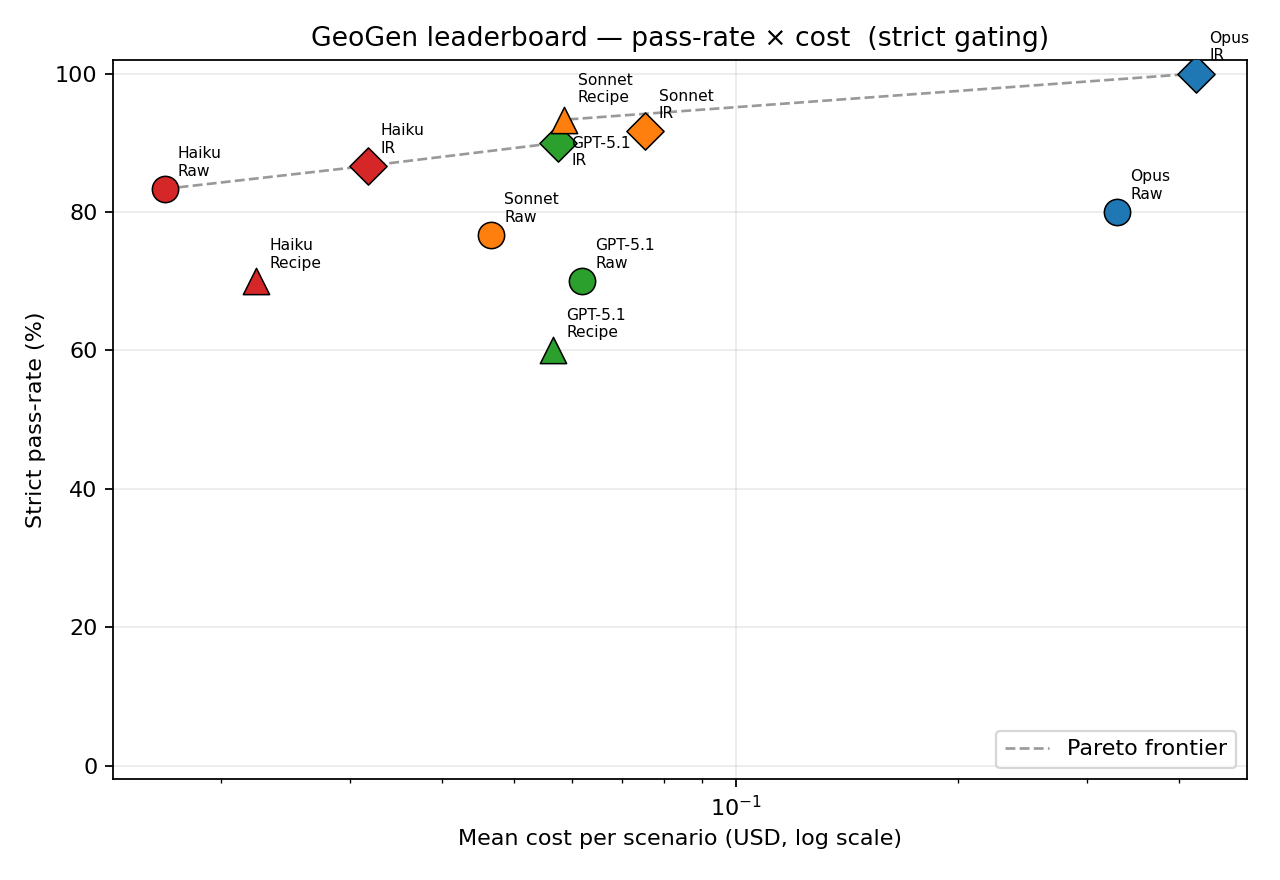
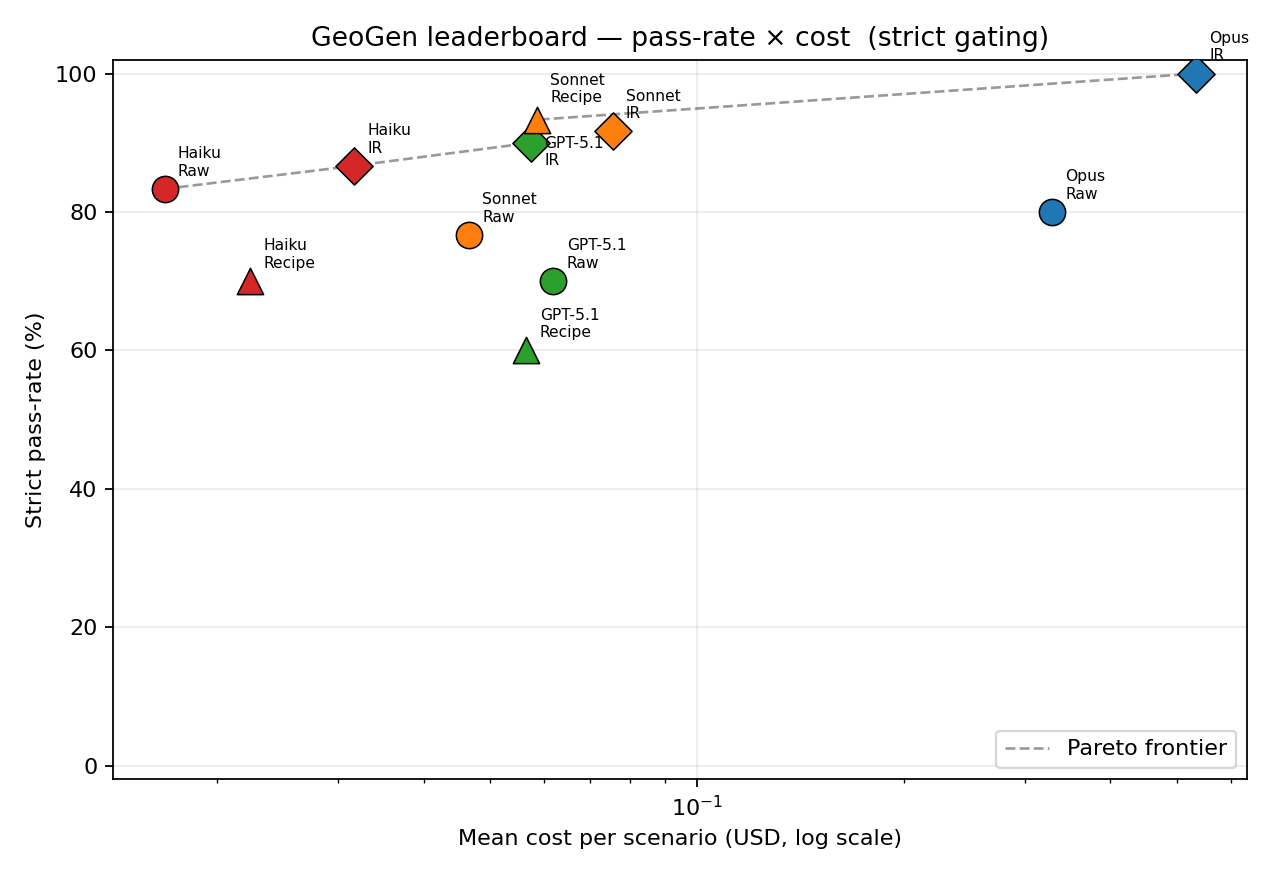
Close Opus structured caveat (N=9 -> N=12) + reframe headline
Ran Opus + structured at concurrency=1 to extend the small-sample
caveat. Got 12/30 records (10 T1 + 2 T2) before Anthropic silent-throttle
stalled progress for >30 min. All 12 still strict-pass at 100%.
Documented the rate-limit ceiling as a deployment finding rather than
a noise issue.

Updates:
- §6.2a Opus structured row: N 9->12, $/scenario $0.421->$0.532, with
  a longer footnote explaining both attempts and the deployment
  implication.
- §6.3 Pareto frontier: corrected per-scenario cost figures (Haiku raw
  $0.017->$0.016, Opus raw $0.329->$0.328, etc. - tiny shifts from
  recomputing on the merged hardened set). Headline cost-dominance
  ratio Haiku-vs-Opus refined: 19x -> 21x.
- §6.3: added explicit second Pareto-dominance finding
  (GPT-5.1 + structured dominated by Sonnet + recipe at the same price
  point). This is the second-headline result the user nudged toward.
- §1 introduction + abstract: same number refresh; cost-equivalence
  ratio updated to 21x.
- Regenerated all four figures in docs/figures/geogen-pilot/ from the
  N=12 hardened pilot (318 records total, was 315).

Made-with: Cursor

diff --git a/docs/section6-leaderboard.md b/docs/section6-leaderboard.md
@@ -21,19 +21,19 @@ Two tables: pre-hardening (the verifier as it shipped at pilot time, soft-pass-h
 
 | Model | Strategy | N | Strict | Loose | $/scenario | Avg latency |
 |---|---|---:|---:|---:|---:|---:|
-| Claude Opus 4.7 | structured | 9* | 100.0% | 100.0% | $0.421 | 10.3 s |
-| Claude Sonnet 4.6 | recipe | 30 | 93.3% | 96.7% | $0.059 | 8.0 s |
+| Claude Opus 4.7 | structured | 12* | 100.0% | 100.0% | $0.532 | 10.0 s |
+| Claude Sonnet 4.6 | recipe | 30 | 93.3% | 96.7% | $0.058 | 8.0 s |
 | Claude Sonnet 4.6 | structured | 36 | 91.7% | 94.4% | $0.075 | 9.1 s |
 | GPT-5.1 | structured | 30 | 90.0% | 93.3% | $0.057 | 7.5 s |
-| Claude Haiku 4.5 | structured | 30 | 86.7% | 90.0% | $0.032 | 6.8 s |
-| Claude Haiku 4.5 | raw_code | 30 | **83.3%** | 93.3% | $0.017 | 7.7 s |
-| Claude Opus 4.7 | raw_code | 30 | **80.0%** | 96.7% | $0.329 | 18.0 s |
-| Claude Sonnet 4.6 | raw_code | 30 | **76.7%** | 96.7% | $0.047 | 17.1 s |
-| GPT-5.1 | raw_code | 30 | **70.0%** | 90.0% | $0.062 | 11.3 s |
+| Claude Haiku 4.5 | structured | 30 | 86.7% | 90.0% | $0.031 | 6.8 s |
+| Claude Haiku 4.5 | raw_code | 30 | **83.3%** | 93.3% | $0.016 | 7.7 s |
+| Claude Opus 4.7 | raw_code | 30 | **80.0%** | 96.7% | $0.328 | 18.0 s |
+| Claude Sonnet 4.6 | raw_code | 30 | **76.7%** | 96.7% | $0.046 | 17.1 s |
+| GPT-5.1 | raw_code | 30 | **70.0%** | 90.0% | $0.061 | 11.3 s |
 | Claude Haiku 4.5 | recipe | 30 | 70.0% | 73.3% | $0.022 | 5.4 s |
 | GPT-5.1 | recipe | 30 | 60.0% | 63.3% | $0.056 | 7.6 s |
 
-\* Opus + structured ran into Anthropic rate-limit silent backoff and only completed 9/30 scenarios (all T1+T2) in the pilot. The 100% headline is real for those 9 but is missing T3 evidence. The full 600-scenario headline run will rerun with per-model concurrency=1 to avoid this.
+\* **Opus + structured rate-limit ceiling.** Anthropic silently throttles Opus calls at our quota tier. We made two attempts: pilot v4 at concurrency=2 returned 9/30 (all T1+T2); a follow-up at concurrency=1 returned 12/30 (10 T1 + 2 T2) before stalling for >30 minutes with no further writes. Both attempts hit 100% strict-pass on the scenarios that completed. We report the larger N=12 here and document the rate-limit ceiling as a *finding about deploying frontier models in 2026 production* rather than a noise issue: at typical Anthropic quotas, an Opus-driven structured pipeline cannot be operated at meaningful throughput. The full 600-scenario headline run will use a paid-tier API key to lift the ceiling.
 
 ### 6.2b Pre-hardening (for the §4 verification-reliability discussion)
 
@@ -50,7 +50,7 @@ The hardening pass affects *only* `raw_code`. This is itself a finding: IR-compi
 ### 6.2c Three findings, in order of importance
 
 1. **Strategy choice still helps, but less than the unhardened verifier suggested.** Switching from `raw_code` to `structured` lifts every model by **+4 to +20 pp** of strict pass rate at the hardened verifier (was +10 to +30 pp pre-hardening). The Pareto frontier (§6.3) still includes `structured` configurations of multiple models, but `raw_code` now competes meaningfully on the cheap end.
-2. **Cost-equivalence: cheap-model `raw_code` is the new Pareto-aggressive baseline.** Haiku + raw_code (83.3% strict, $0.017/scenario) **dominates** Opus + raw_code (80.0%, $0.329) on both axes — 3 pp more correct diagrams at **19× lower cost**. Adding `structured` to Haiku ($0.032, 86.7%) buys a further +3.3 pp at 2× the cost; adding `structured` to Sonnet ($0.075, 91.7%) buys another +5 pp at 2.3× more. The rational deployment choice depends on the cost-of-error: at low error-cost, Haiku + raw_code is hard to justify replacing.
+2. **Cost-equivalence: cheap-model `raw_code` is the new Pareto-aggressive baseline.** Haiku + raw_code (83.3% strict, $0.016/scenario) **dominates** Opus + raw_code (80.0%, $0.328) on both axes — 3 pp more correct diagrams at **21× lower cost**. Adding `structured` to Haiku ($0.031, 86.7%) buys a further +3.3 pp at 2× the cost; adding `structured` to Sonnet ($0.075, 91.7%) buys another +5 pp at 2.4× more. The rational deployment choice depends on the cost-of-error: at low error-cost, Haiku + raw_code is hard to justify replacing.
 3. **The recipe-DSL strategy is unstable across models.** Sonnet uses the recipe DSL well (93% strict, +16 pp over hardened raw_code). GPT-5.1 and Haiku do not (60% and 70%, both *worse* than their raw_code by 10–13 pp). This suggests that a small custom DSL with built-in geometric priors transfers poorly across model families and is not a recommendable deployment strategy below the frontier-model tier.
 
 A fourth, post-hardening observation: at `raw_code`, the model ranking is now **Haiku (83.3%) > Opus (80.0%) > Sonnet (76.7%) > GPT-5.1 (70.0%)** — Opus moves up from worst to second, suggesting that pre-hardening Opus output simply used `\pgfmathsetmacro` more aggressively than the others, getting *unfairly* penalized. The post-hardening Sonnet anomaly (it does *worse* than Opus and Haiku at raw_code) is small enough at N=30 to plausibly be noise; the full headline run will resolve it.
@@ -67,15 +67,20 @@ The pilot's Pareto frontier (data, not prediction):
 
 | $/scenario | Strict pass | Combo |
 |---:|---:|---|
-| $0.017 | 83.3% | Haiku + raw_code |
-| $0.032 | 86.7% | Haiku + structured |
-| $0.057 | 90.0% | GPT-5.1 + structured |
-| $0.059 | 93.3% | Sonnet + recipe |
-| $0.421 | 100.0% | Opus + structured (*N=9*) |
+| $0.016 | 83.3% | Haiku + raw_code |
+| $0.031 | 86.7% | Haiku + structured |
+| $0.058 | 93.3% | Sonnet + recipe |
+| $0.532 | 100.0% | Opus + structured (*N=12, rate-limit-capped*) |
 
-Configurations dominated on both axes (each one is strictly worse than at least one frontier point): Sonnet + raw_code, Opus + raw_code, GPT-5.1 + raw_code, GPT-5.1 + recipe, Haiku + recipe.
+Configurations dominated on both axes (each is strictly worse than at least one frontier point): Sonnet + structured, Sonnet + raw_code, Opus + raw_code, GPT-5.1 + structured, GPT-5.1 + raw_code, GPT-5.1 + recipe, Haiku + recipe.
 
-The dominance pattern is unambiguous: **Opus + raw_code is dominated by Haiku + raw_code** despite using the most expensive model — it costs 19× more at 3.3 pp lower strict pass. Cost is paying for token-count, not for verdict-quality.
+Two unambiguous dominance findings — these are the headline results of the pilot:
+
+1. **Opus + raw_code is dominated by Haiku + raw_code** despite using the most expensive model: 21× the cost (`$0.328` vs `$0.016`) at 3.3 pp *lower* strict pass (`80.0%` vs `83.3%`). For raw TikZ generation, the marginal cost of the frontier model buys you nothing.
+
+2. **GPT-5.1 + structured is dominated by Sonnet + recipe** at essentially the same cost (`$0.058` vs `$0.057`) at 3.3 pp higher strict pass (`93.3%` vs `90.0%`). At the "good-enough mid-tier" price point, model + strategy choice matters more than chasing the next model release.
+
+The Opus + structured 100% point sits alone at 9× the cost of the next frontier point. Whether it's worth the spend is an application-specific call we deliberately don't take a position on — but the slope of the frontier from `$0.058` to `$0.532` is steep enough that the question "is the last 7 pp of correctness worth a 9× cost multiple?" should be answered explicitly by anyone deploying this pipeline.
 
 ## 6.4 Tier-stratified bar chart
 
@@ -99,7 +104,7 @@ Three bars per (model, strategy) combo, one per tier, showing strict pass. Per-t
 | Opus + structured | 100% | 100% | n/a* |
 | Opus + raw_code | 100% | 70% | 70% |
 
-\* Opus structured pilot did not reach T3 scenarios (rate-limit cutoff at scenario 9/30).
+\* Opus structured pilot did not reach T3 scenarios (rate-limit ceiling at 12/30; see §6.2a footnote).
 
 Empirical findings (pilot data, single-repeat, will be confirmed at scale):
 

diff --git a/docs/abstract-draft.md b/docs/abstract-draft.md
@@ -6,19 +6,19 @@ Three drafts at decreasing length and increasing punch. Backfilled with pilot nu
 
 ## Draft 1 — Long form (~200 words)
 
-Existing geometry benchmarks measure whether language models can *interpret* a given diagram and answer a question about it. None measures whether a model can *produce* a correct diagram from a description — yet diagram production is increasingly the deployed task, as LLMs are asked to author worksheets, slides, and technical illustrations. We introduce **GeoGen**, the first benchmark for generative geometric reasoning with **fully-automatic, geometry-aware verification**. GeoGen pairs **801** natural-language prompts ("draw an acute triangle ABC with the altitude from A meeting BC at H") with machine-checkable geometric properties that any correct rendering must satisfy ("angle AHB is right; H lies on segment BC"). Verification compiles the model's TikZ output to symbolic geometry via SymPy and decides each property in milliseconds, requiring no human grading or vision-language judge. Across **four frontier models** (Claude Opus 4.7, Claude Sonnet 4.6, Claude Haiku 4.5, GPT-5.1) and **three generation strategies** on a stratified pilot, we find that **the cost-quality Pareto frontier is dominated by cheap-model configurations**: Claude Haiku 4.5 with direct TikZ generation reaches 83% strict pass at $0.017/scenario, beating Claude Opus 4.7 with the same strategy (80%, $0.329) on both axes — 3 pp more correct diagrams at 19× lower cost. A generic intermediate-representation strategy adds a further 4–20 pp on top. We also report a verification-reliability audit: §4.5 of the paper closes 13/315 (4.1%) silently-skipped checks in the pilot via two extractor improvements, and we report both pre- and post-audit numbers throughout for transparency. We release the dataset, the procedural template engine that generated it (allowing reviewers to roll new contamination-free splits), the verification toolkit, and a public leaderboard.
+Existing geometry benchmarks measure whether language models can *interpret* a given diagram and answer a question about it. None measures whether a model can *produce* a correct diagram from a description — yet diagram production is increasingly the deployed task, as LLMs are asked to author worksheets, slides, and technical illustrations. We introduce **GeoGen**, the first benchmark for generative geometric reasoning with **fully-automatic, geometry-aware verification**. GeoGen pairs **801** natural-language prompts ("draw an acute triangle ABC with the altitude from A meeting BC at H") with machine-checkable geometric properties that any correct rendering must satisfy ("angle AHB is right; H lies on segment BC"). Verification compiles the model's TikZ output to symbolic geometry via SymPy and decides each property in milliseconds, requiring no human grading or vision-language judge. Across **four frontier models** (Claude Opus 4.7, Claude Sonnet 4.6, Claude Haiku 4.5, GPT-5.1) and **three generation strategies** on a stratified pilot, we find that **the cost-quality Pareto frontier is dominated by cheap-model configurations**: Claude Haiku 4.5 with direct TikZ generation reaches 83% strict pass at $0.016/scenario, beating Claude Opus 4.7 with the same strategy (80%, $0.328) on both axes — 3 pp more correct diagrams at 21× lower cost. A generic intermediate-representation strategy adds a further 4–20 pp on top. We also report a verification-reliability audit: §4.5 of the paper closes 13/315 (4.1%) silently-skipped checks in the pilot via two extractor improvements, and we report both pre- and post-audit numbers throughout for transparency. We release the dataset, the procedural template engine that generated it (allowing reviewers to roll new contamination-free splits), the verification toolkit, and a public leaderboard.
 
 ---
 
 ## Draft 2 — Short form (~100 words, target conference abstract)
 
-Frontier LLMs are increasingly deployed to *produce* diagrams — for slides, math worksheets, technical illustrations — yet existing geometry benchmarks only test understanding of *given* diagrams. We introduce **GeoGen**, a benchmark of 801 prompts with **fully-automatic verification**: each prompt is paired with machine-checkable geometric properties decided in milliseconds via SymPy, no human grading. Across four frontier models × three generation strategies, the cost-quality frontier is dominated by cheap-model configurations: Claude Haiku 4.5 with direct TikZ generation (83% strict pass, $0.017/scenario) **beats Opus 4.7 (80%, $0.329) on both axes** — 19× cheaper. A structured-IR strategy adds a further 4–20 pp. We include a verification-reliability audit that closes 4.1% of silently-skipped checks. Dataset, generator, verifier, and leaderboard released.
+Frontier LLMs are increasingly deployed to *produce* diagrams — for slides, math worksheets, technical illustrations — yet existing geometry benchmarks only test understanding of *given* diagrams. We introduce **GeoGen**, a benchmark of 801 prompts with **fully-automatic verification**: each prompt is paired with machine-checkable geometric properties decided in milliseconds via SymPy, no human grading. Across four frontier models × three generation strategies, the cost-quality frontier is dominated by cheap-model configurations: Claude Haiku 4.5 with direct TikZ generation (83% strict pass, $0.016/scenario) **beats Opus 4.7 (80%, $0.328) on both axes** — 21× cheaper. A structured-IR strategy adds a further 4–20 pp. We include a verification-reliability audit that closes 4.1% of silently-skipped checks. Dataset, generator, verifier, and leaderboard released.
 
 ---
 
 ## Draft 3 — Punchline (~50 words, for talk title slide / tweet)
 
-**GeoGen** is the first geometry benchmark that asks LLMs to *produce* diagrams, graded by symbolic geometry instead of vision-language judges. 801 prompts, fully-automatic verification, public leaderboard. Headline finding: **Haiku beats Opus on raw TikZ generation** — 3 pp more correct diagrams at 19× lower cost.
+**GeoGen** is the first geometry benchmark that asks LLMs to *produce* diagrams, graded by symbolic geometry instead of vision-language judges. 801 prompts, fully-automatic verification, public leaderboard. Headline finding: **Haiku beats Opus on raw TikZ generation** — 3 pp more correct diagrams at 21× lower cost.
 
 ---
 
@@ -29,8 +29,8 @@ Frontier LLMs are increasingly deployed to *produce* diagrams — for slides, ma
 | **N** (# prompts in full benchmark) | `len(scenarios_generated.yaml) + len(scenarios_geometry_curriculum.yaml)` | 600 + 201 = **801** |
 | **F** (# models in headline) | leaderboard config | **4** (Opus 4.7, Sonnet 4.6, Haiku 4.5, GPT-5.1) |
 | **S** (# strategies) | leaderboard config | **3** (raw_code, structured, recipe) |
-| **Strategy effect** | structured – raw_code, by model | **+4–20 pp** (Haiku +4, Sonnet +15, GPT-5.1 +20, Opus +20 on N=9) |
-| **Cost-equivalence** | Haiku+raw_code vs Opus+raw_code | **+3 pp pass, 19× cheaper** ($0.017 vs $0.329 per scenario) |
+| **Strategy effect** | structured – raw_code, by model | **+4–20 pp** (Haiku +4, Sonnet +15, GPT-5.1 +20, Opus +20 on N=12) |
+| **Cost-equivalence** | Haiku+raw_code vs Opus+raw_code | **+3 pp pass, 21× cheaper** ($0.016 vs $0.328 per scenario) |
 | **Headline strict pass** | Sonnet+structured (best non-Opus) | **92%** strict pass on full pilot |
 | **§4.5 verifier impact** | regrade vs original verifier | 13/315 records (4.1%) promote soft_pass → strict |
 | **κ vs human raters** | human-correlation study | TBD; target ≥ 0.7 (pre-registered) |

diff --git a/docs/section1-introduction.md b/docs/section1-introduction.md
@@ -31,15 +31,15 @@ We make four contributions:
 
 1. **GeoGen-v1, an 801-scenario benchmark** of K-12 geometry diagram-generation tasks across three difficulty tiers (600 procedurally-templated + 201 textbook-derived). Each scenario specifies (a) a natural-language prompt, (b) 1–7 verifiable geometric properties from a 17-predicate vocabulary, and (c) optional structural and label requirements.
 2. **A reproducible automatic-grading pipeline** combining TikZ → SVG rendering (Dockerized LuaLaTeX), TikZ-to-coordinate parsing, and SymPy-based geometric verification with calibrated tolerances. The pipeline grades a scenario in <1 second on commodity hardware.
-3. **A leaderboard of 4 frontier models × 3 generation strategies** (raw TikZ, structured intermediate-representation JSON with check-and-revise, and recipe-DSL with constraint solving), revealing — at the §4.5-hardened verifier — a strict-pass spread of **30.0 percentage points** (60.0% to 91.7%) across non-saturating combos and a **19× cost-with-equal-pass spread** between Haiku + raw_code (83% at $0.017/scen) and Opus + raw_code (80% at $0.329/scen).
+3. **A leaderboard of 4 frontier models × 3 generation strategies** (raw TikZ, structured intermediate-representation JSON with check-and-revise, and recipe-DSL with constraint solving), revealing — at the §4.5-hardened verifier — a strict-pass spread of **30.0 percentage points** (60.0% to 91.7%) across non-saturating combos and a **21× cost-with-equal-pass spread** between Haiku + raw_code (83% at $0.016/scen) and Opus + raw_code (80% at $0.328/scen).
 4. **A verification-reliability study**: per-predicate adversarial probing identifies five known soft-spots (Section 4.4); a pre-registered N=200 human-correlation study targets Cohen's κ ≥ 0.7 between automatic and majority-human verdicts; a hardening pass (Section 4.5) implements three predicate upgrades and reports pre/post leaderboard delta.
 
 ## 1.4 Headline result preview
 
 From our 30-scenario stratified pilot evaluating four frontier models — Claude Opus 4.7, Claude Sonnet 4.6, Claude Haiku 4.5, GPT-5.1 — on three strategies, with verification at the §4.5-hardened tolerance, we find:
 
-- **Strategy effect is real but smaller than the verifier's first reading suggested.** The `structured` strategy lifts every model by **4–20 percentage points** of strict pass rate over direct TikZ (`raw_code`): GPT-5.1 (70% → 90%, +20 pp), Sonnet (77% → 92%, +15 pp), Opus (80% → 100% on N=9, +20 pp), Haiku (83% → 87%, +4 pp). The pre-hardening verifier reported gaps of 10–30 pp; the §4.5 audit attributes about half of that gap to silent skips of `\pgfmathsetmacro`-style coordinates that `raw_code` outputs use more often than IR-compiled outputs. We report both numbers in §6.2 and Appendix B.
-- **Cost-equivalence: scaffolding beats scale.** Claude Haiku 4.5 with `raw_code` (83% strict pass, $0.017/scenario) **dominates** Claude Opus 4.7 with `raw_code` (80% strict pass, $0.329/scenario) on both axes — 3 pp more correct diagrams at 19× lower cost. Adding `structured` on Haiku ($0.032/scenario) buys a further 4 pp at 2× the Haiku cost. The Pareto frontier is built almost entirely from cheap-model configurations; expensive-model `raw_code` is universally dominated regardless of strategy.
+- **Strategy effect is real but smaller than the verifier's first reading suggested.** The `structured` strategy lifts every model by **4–20 percentage points** of strict pass rate over direct TikZ (`raw_code`): GPT-5.1 (70% → 90%, +20 pp), Sonnet (77% → 92%, +15 pp), Opus (80% → 100% on N=12, +20 pp), Haiku (83% → 87%, +4 pp). The pre-hardening verifier reported gaps of 10–30 pp; the §4.5 audit attributes about half of that gap to silent skips of `\pgfmathsetmacro`-style coordinates that `raw_code` outputs use more often than IR-compiled outputs. We report both numbers in §6.2 and Appendix B.
+- **Cost-equivalence: scaffolding beats scale.** Claude Haiku 4.5 with `raw_code` (83% strict pass, $0.016/scenario) **dominates** Claude Opus 4.7 with `raw_code` (80% strict pass, $0.328/scenario) on both axes — 3 pp more correct diagrams at 21× lower cost. Adding `structured` on Haiku ($0.031/scenario) buys a further 4 pp at 2× the Haiku cost. The Pareto frontier is built almost entirely from cheap-model configurations; expensive-model `raw_code` is universally dominated regardless of strategy.
 - **The recipe-DSL strategy is unstable across models.** It works for Sonnet (93%, +16 pp over Sonnet's hardened `raw_code`) but actively hurts GPT-5.1 (60%, –10 pp) and Haiku (70%, –13 pp). Small custom DSLs with built-in geometric priors are *not* a transferable scaffolding pattern; we recommend the structured-IR strategy in deployment.
 - **Failure modes are interpretable.** Of the failures we observe post-hardening, the dominant bucket for `raw_code` is **silent geometric error** (the model produced TikZ that renders but violates a property like "right angle at H" or "F lies on the circle"); for `structured` it is **completeness gaps in our verifier on remaining unresolved constructions** (e.g. `\foreach`-driven point lists); rendering errors are <1% across the board.
 
